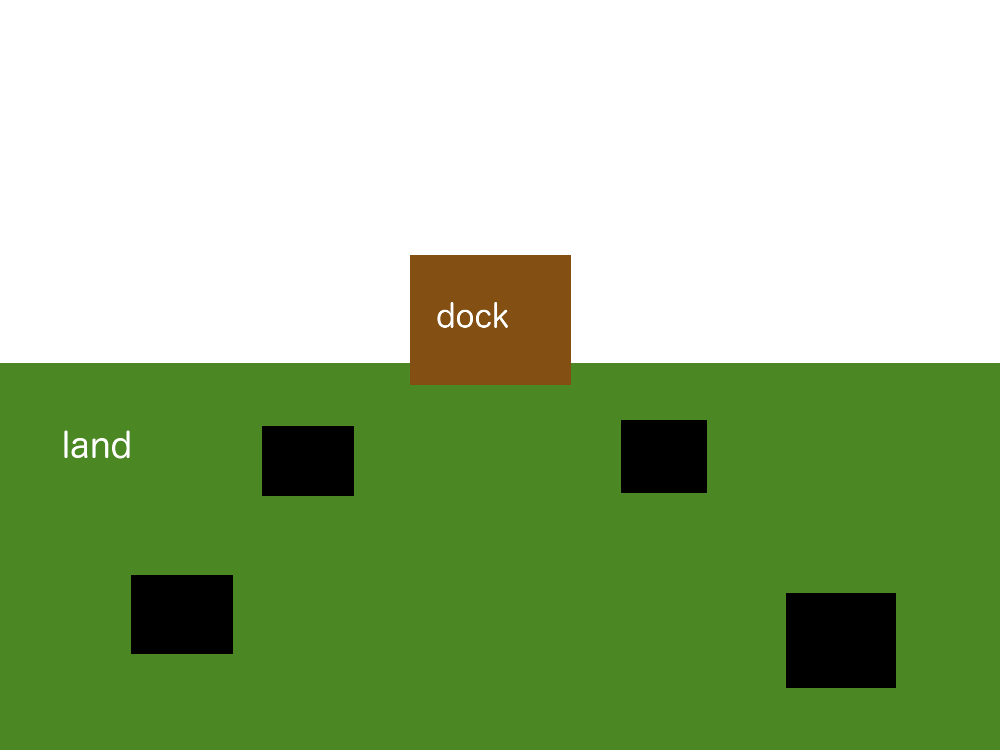
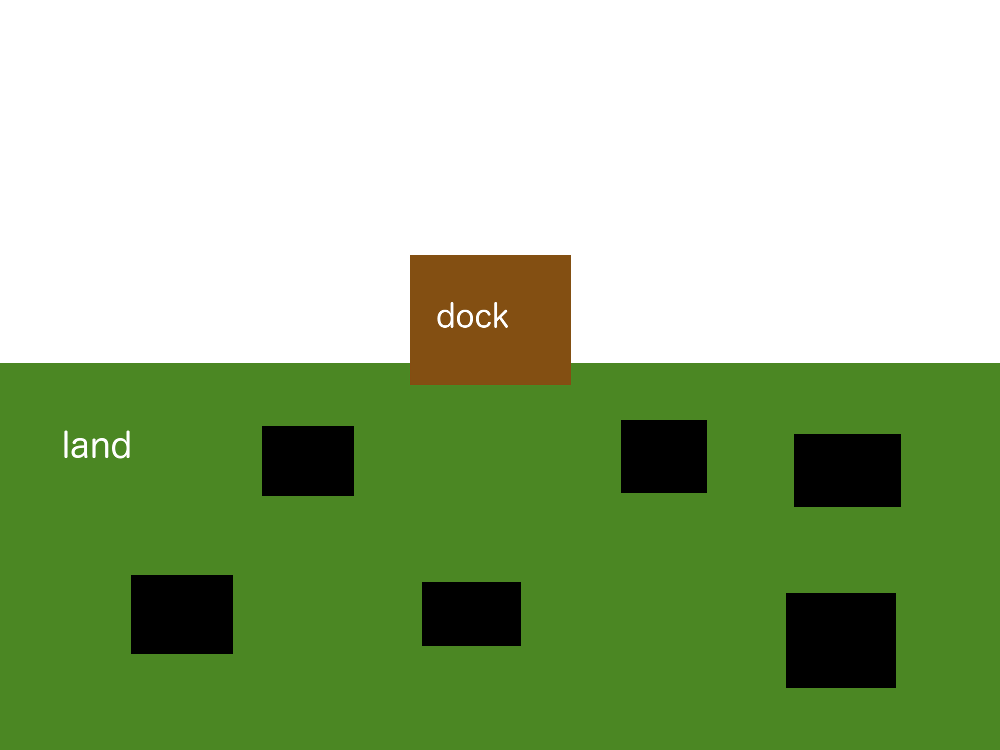
Hovering over a vendor shows what trade is available there. Also: more commodities, more vendors, less food consumption, no slaves at start.

Changed region(s): [[0.775, 0.552, 0.899, 0.6747], [0.403, 0.7667, 0.527, 0.8587]]

diff --git a/src/vendor.js b/src/vendor.js
@@ -1,22 +1,29 @@
 const IconAvatar = require('skid/lib/scene/icon-avatar');
+const Translation = require('skid/lib/scene/translation');
+const TextAvatar = require('skid/lib/scene/text-avatar');
 const {addHandler} = require('./event');
 const {Visibility} = require('./visibility');
 const {overlapsBounds} = require('./bounds');
+const {commodityTypes, commodityOfType} = require('./commodity');
 
 addHandler('load', (session) => {
     loadImage(session, 'vendor1');
     loadImage(session, 'vendor2');
     loadImage(session, 'vendor3');
     loadImage(session, 'vendor4');
+    loadImage(session, 'vendor5');
+    loadImage(session, 'vendor6');
 })
 
 addHandler('start', (session) => {
     session.vendorsEnabled = true;
     session.vendors = [];
-    loadVendor(session, 'vendor1', {left: 139, top: 585, right: 243, bottom: 664});
-    loadVendor(session, 'vendor2', {left: 268, top: 434, right: 365, bottom: 508});
-    loadVendor(session, 'vendor3', {left: 626, top: 425, right: 718, bottom: 503});
-    loadVendor(session, 'vendor4', {left: 792, top: 601, right: 907, bottom: 701});
+    makeVendor(session, 'vendor1', {left: 139, top: 585, right: 243, bottom: 664});
+    makeVendor(session, 'vendor2', {left: 268, top: 434, right: 365, bottom: 508});
+    makeVendor(session, 'vendor3', {left: 626, top: 425, right: 718, bottom: 503});
+    makeVendor(session, 'vendor4', {left: 792, top: 601, right: 907, bottom: 701});
+    makeVendor(session, 'vendor5', {left: 420, top: 582, right: 524, bottom: 651});
+    makeVendor(session, 'vendor6', {left: 790, top: 430, right: 900, bottom: 510});
 });
 
 addHandler('proceed', (session) => {
@@ -28,12 +35,6 @@ addHandler('proceed', (session) => {
 
 addHandler('proceed_done', (session) => {
     session.vendorsEnabled = true;
-});
-
-addHandler('start proceed_done', (session) => {
-    for (const vendor of session.vendors) {
-
-    }
 });
 
 addHandler('mousemove', (session, {x, y}) => {
@@ -53,13 +54,90 @@ function loadImage(session, baseName) {
     icon.loadImage(`./assets/${baseName}.png`, `${baseName}_0_0_1000`);
 }
 
-function loadVendor(session, baseName, bounds) {
+function makeVendor(session, baseName, bounds) {
     const visibility = new Visibility(session.scene.world);
     visibility.visible = false;
+
     const avatar = new IconAvatar(visibility, session.atlas.get(baseName), 0, 0, 1, 1);
     avatar.layer = 3;
-    session.vendors.push({
-        visibility,
-        bounds,
-    });
+
+    const textPosition = new Translation(visibility);
+    textPosition.x.setTo((bounds.right + bounds.left) / 2.0 / 1000.0);
+    textPosition.y.setTo(bounds.top / 1000.0);
+
+    const text = new TextAvatar(textPosition, session.scene.camera);
+    text.textAlign = 'center';
+    text.textBaseline = 'bottom';
+    text.fillStyle = 'white';
+    text.font = '24px verdana';
+
+    session.vendors.push({visibility, bounds, text});
 }
+
+const RARR = '\u2192';
+
+// https://stackoverflow.com/questions/2450954/how-to-randomize-shuffle-a-javascript-array
+function shuffle(array) {
+    let currentIndex = array.length, temporaryValue, randomIndex;
+    while (0 !== currentIndex) {
+        randomIndex = Math.floor(Math.random() * currentIndex);
+        currentIndex -= 1;
+        temporaryValue = array[currentIndex];
+        array[currentIndex] = array[randomIndex];
+        array[randomIndex] = temporaryValue;
+    }
+    return array;
+}
+
+addHandler('start proceed_done', (session) => {
+    // Can't have same commodity on both sides of the exchange in one town or else free money.
+    const types = shuffle(commodityTypes());
+    const buys = [];
+    const sells = [];
+    for (const type of types) {
+        if (buys.length < 3) {
+            buys.push(type);
+        } else if (!sells.length < 3) {
+            sells.push(type);
+        } else if (Math.random() > .5) {
+            buys.push(type);
+        } else {
+            sells.push(type);
+        }
+    }
+
+    const combinations = {};
+
+    for (const vendor of session.vendors) {
+        // Every vendor must have a unique pair of commodity types
+        let buyType, sellType;
+        do {
+            buyType = buys[Math.floor(Math.random() * buys.length)];
+            sellType = sells[Math.floor(Math.random() * sells.length)];
+        } while (combinations[buyType + sellType]);
+        combinations[buyType + sellType] = true;
+
+        const buy = commodityOfType(buyType);
+        const sell = commodityOfType(sellType);
+
+        vendor.buy = buy;
+        vendor.sell = sell;
+
+        const buyValue = buy.fmv * (1 + Math.random() * .8 - .4);
+        const sellValue = sell.fmv * (1 + Math.random() * .8 - .4);
+
+        let buyCount = 1;
+        let sellCount = buyValue / sellValue;
+        if (buyCount < 1) {
+            sellCount /= buyCount;
+            buyCount = 1;
+        } else if (sellCount < 1) {
+            buyCount /= sellCount;
+            sellCount = 1;
+        }
+        buyCount = Math.ceil(buyCount);
+        sellCount = Math.ceil(sellCount);
+
+        vendor.text.text = `${buyCount} ${buy.name} ${RARR} ${sellCount} ${sell.name}`;
+    }
+});

diff --git a/src/commodity.js b/src/commodity.js
@@ -9,18 +9,22 @@ function iconOf(session, iconName, stats) {
 }
 
 addHandler('load', (session) => {
-    commodities['food'] = {name: 'Food', icon: iconOf(session, 'food', '0_0_50')};
-    commodities['gold'] = {name: 'Gold', icon: iconOf(session, 'gold', '0_0_50')};
-    commodities['silver'] = {name: 'Silver', icon: iconOf(session, 'silver', '0_0_50')};
-    // commodities['sugar'] = {name: 'Sugar', icon: iconOf(session, 'sugar', '0_0_50')};
-    // commodities['cocaine'] = {name: 'Cocaine', icon: iconOf(session, 'sugar', '0_0_50')};
-    // commodities['salt'] = {name: 'Salt', icon: iconOf(session, 'sugar', '0_0_50')};
-    // commodities['cutlass'] = {name: 'Cutlasses', icon: iconOf(session, 'cutlass', '0_0_50')};
-    // commodities['cutlad'] = {name: 'Cutlads', icon: iconOf(session, 'cutlad', '0_0_50')};
-    commodities['slave'] = {name: 'Slaves', icon: iconOf(session, 'slave', '0_0_50')};
-    // commodities['tulip'] = {name: 'Tulips', icon: iconOf(session, 'tulip', '0_0_50')};
+    commodities['food'] = {name: 'Food', icon: iconOf(session, 'food', '0_0_50'), fmv: .5};
+    commodities['gold'] = {name: 'Gold', icon: iconOf(session, 'gold', '0_0_50'), fmv: 20};
+    commodities['silver'] = {name: 'Silver', icon: iconOf(session, 'silver', '0_0_50'), fmv: 1};
+    commodities['sugar'] = {name: 'Sugar', icon: iconOf(session, 'sugar', '0_0_50'), fmv: .2};
+    commodities['cocaine'] = {name: 'Cocaine', icon: iconOf(session, 'sugar', '0_0_50'), fmv: .6};
+    commodities['salt'] = {name: 'Salt', icon: iconOf(session, 'sugar', '0_0_50'), fmv: .6};
+    commodities['cutlass'] = {name: 'Cutlasses', icon: iconOf(session, 'cutlass', '0_0_50'), fmv: 5};
+    commodities['cutlad'] = {name: 'Cutlads', icon: iconOf(session, 'cutlad', '0_0_50'), fmv: 6};
+    commodities['slave'] = {name: 'Slaves', icon: iconOf(session, 'slave', '0_0_50'), fmv: 8};
+    commodities['tulip'] = {name: 'Tulips', icon: iconOf(session, 'tulip', '0_0_50'), fmv: 4};
 });
 
 exports.commodityOfType = function commodityOfType(type) {
     return commodities[type];
+};
+
+exports.commodityTypes = function commodityTypes() {
+    return Object.keys(commodities);
 };

diff --git a/src/inventory.js b/src/inventory.js
@@ -22,10 +22,9 @@ addHandler('start', (session) => {
         makeSlot(session, left, top);
     }
 
-    gainCommodity(session, 'food', 5, true);
+    gainCommodity(session, 'food', 30, true);
     gainCommodity(session, 'gold', 3, true);
-    gainCommodity(session, 'silver', 9, true);
-    gainCommodity(session, 'slave', 2, true);
+    gainCommodity(session, 'silver', 10, true);
 });
 
 addHandler('mousemove', (session, {x, y}) => {

diff --git a/src/eat.js b/src/eat.js
@@ -2,7 +2,7 @@ const {addHandler, handle, handleLater} = require('./event');
 const {amountOf, loseCommodity, gainCommodity} = require('./inventory');
 
 addHandler('proceed', (session) => {
-    session.foodCost = Math.floor(Math.random() * 7) + 1;
+    session.foodCost = Math.floor(Math.random() * 3) + 1;
 });
 
 addHandler('proceed_eat', (session) => {
